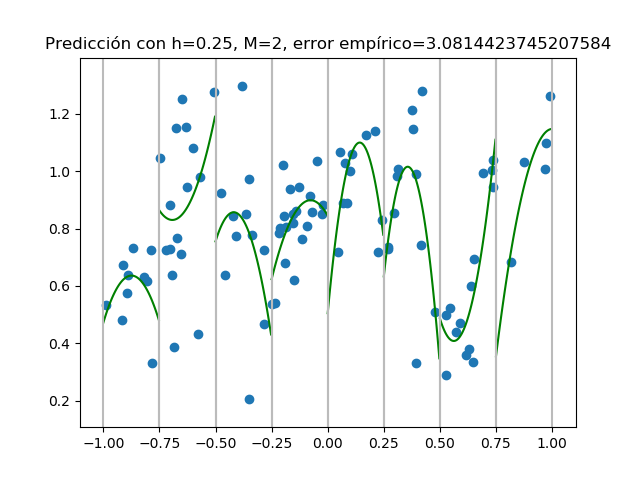
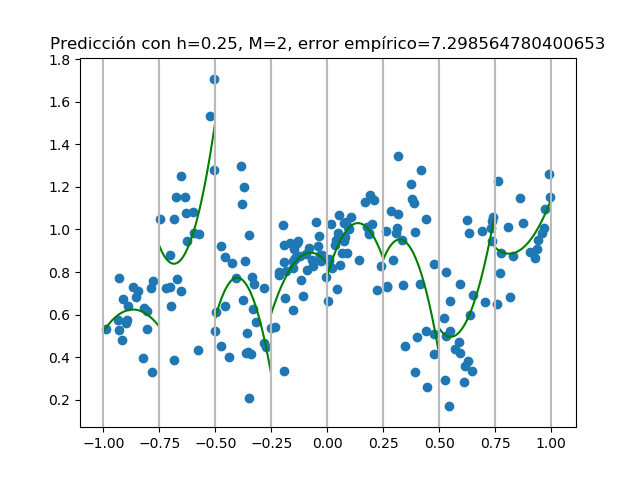
Eran 200 puntos

diff --git a/14-12-18/aproximacion.py b/14-12-18/aproximacion.py
@@ -5,7 +5,7 @@ import sys
 
 datos=pickle.load(open("../puntos_generados/puntos.pickle","rb"))
 #print(datos)
-a=np.array(datos)[:100]
+a=np.array(datos)[:200]
 print(a.shape)
 print("Primer argumento: h (tamaño de los intervalos). Segundo argumento: M (grado del polinomio).")
 
